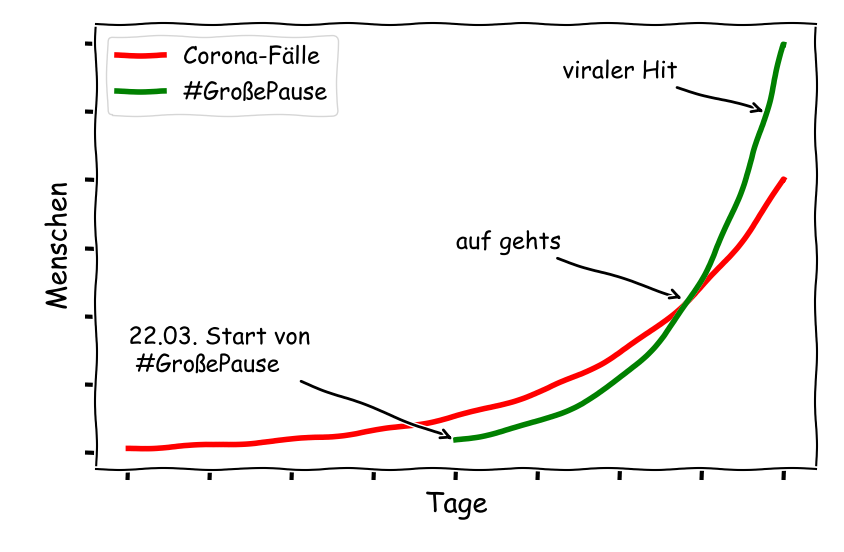
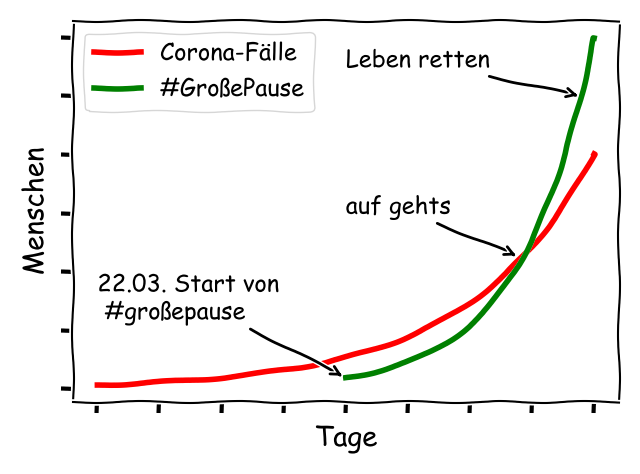
Styled impressum, added sources, added new plot graphic, minor text changes

diff --git a/imprint.html b/imprint.html
@@ -1,58 +1,202 @@
-<h1 class="adsimple-321164076">Impressum</h1>
-<p class="adsimple-321164076">Informationspflicht laut § 5 TMG.</p>
-<p class="adsimple-321164076">
-<p>Marc Bickel</p>
-<p class="adsimple-321164076">Straßlacher Str. 2, <br />81479 München, <br />Deutschland</p>
-<p class="adsimple-321164076">
-<strong>E-Mail:</strong> <a href="mailto:marc.bickel.de@gmail.com">marc.bickel.de@gmail.com</a>
-</p>
-<p style="margin-top:15px;">Quelle: Erstellt mit dem <a title="Impressum Generator Deutschland" href="https://www.adsimple.de/impressum-generator/" target="_blank" rel="follow" style="text-decoration:none;">Impressum Generator</a> von AdSimple in Kooperation mit <a href="https://www.123familie.de" target="_blank" rel="follow" title="">123familie.de</a>
-</p>
-<h2 class="adsimple-321164076">EU-Streitschlichtung</h2>
-<p>Gemäß Verordnung über Online-Streitbeilegung in Verbraucherangelegenheiten (ODR-Verordnung) möchten wir Sie über die Online-Streitbeilegungsplattform (OS-Plattform) informieren.<br />
-Verbraucher haben die Möglichkeit, Beschwerden an die Online Streitbeilegungsplattform der Europäischen Kommission unter <a class="adsimple-321164076" href="https://ec.europa.eu/consumers/odr/main/index.cfm?event=main.home2.show&amp;lng=DE" target="_blank" rel="noopener">http://ec.europa.eu/odr?tid=321164076</a> zu richten. Die dafür notwendigen Kontaktdaten finden Sie oberhalb in unserem Impressum.</p>
-<p>Wir möchten Sie jedoch darauf hinweisen, dass wir nicht bereit oder verpflichtet sind, an Streitbeilegungsverfahren vor einer Verbraucherschlichtungsstelle teilzunehmen.</p>
-<h2 class="adsimple-321164076">Haftung für Inhalte dieser Website</h2>
-<p>Wir entwickeln die Inhalte dieser Webseite ständig weiter und bemühen uns korrekte und aktuelle Informationen bereitzustellen. Laut Telemediengesetz <a class="adsimple-321164076" href="https://www.gesetze-im-internet.de/tmg/__7.html?tid=321164076" rel="noopener" target="_blank">(TMG) §7 (1)</a> sind wir als Diensteanbieter für eigene Informationen, die wir zur Nutzung bereitstellen, nach den allgemeinen Gesetzen verantwortlich. Leider können wir keine Haftung für die Korrektheit aller Inhalte auf dieser Webseite übernehmen, speziell für jene die seitens Dritter bereitgestellt wurden. Als Diensteanbieter im Sinne der §§ 8 bis 10 sind wir nicht verpflichtet, die von ihnen übermittelten oder gespeicherten Informationen zu überwachen oder nach Umständen zu forschen, die auf eine rechtswidrige Tätigkeit hinweisen.</p>
-<p>Unsere Verpflichtungen zur Entfernung von Informationen oder zur Sperrung der Nutzung von Informationen nach den allgemeinen Gesetzen aufgrund von gerichtlichen oder behördlichen Anordnungen bleiben auch im Falle unserer Nichtverantwortlichkeit nach den §§ 8 bis 10 unberührt. </p>
-<p>Sollten Ihnen problematische oder rechtswidrige Inhalte auffallen, bitte wir Sie uns umgehend zu kontaktieren, damit wir die rechtswidrigen Inhalte entfernen können. Sie finden die Kontaktdaten im Impressum.</p>
-<h2 class="adsimple-321164076">Haftung für Links auf dieser Website</h2>
-<p>Unsere Webseite enthält Links zu anderen Webseiten für deren Inhalt wir nicht verantwortlich sind. Haftung für verlinkte Websites besteht für uns nicht, da wir keine Kenntnis rechtswidriger Tätigkeiten hatten und haben, uns solche Rechtswidrigkeiten auch bisher nicht aufgefallen sind und wir Links sofort entfernen würden, wenn uns Rechtswidrigkeiten bekannt werden.</p>
-<p>Wenn Ihnen rechtswidrige Links auf unserer Website auffallen, bitte wir Sie uns zu kontaktieren. Sie finden die Kontaktdaten im Impressum.</p>
-<h2 class="adsimple-321164076">Urheberrechtshinweis</h2>
-<p>Alle Inhalte dieser Webseite (Bilder, Fotos, Texte, Videos) unterliegen dem Urheberrecht der Bundesrepublik Deutschland. Bitte fragen Sie uns bevor Sie die Inhalte dieser Website verbreiten, vervielfältigen oder verwerten wie zum Beispiel auf anderen Websites erneut veröffentlichen. Falls notwendig, werden wir die unerlaubte Nutzung von Teilen der Inhalte unserer Seite rechtlich verfolgen.</p>
-<p>Sollten Sie auf dieser Webseite Inhalte finden, die das Urheberrecht verletzen, bitten wir Sie uns zu kontaktieren.</p>
-<h2 class="adsimple-321164076">Bildernachweis</h2>
-<p>Die Bilder, Fotos und Grafiken auf dieser Webseite sind urheberrechtlich geschützt.</p>
-<p>Die Bilderrechte liegen bei den folgenden Fotografen und Unternehmen:</p>
-<ul class="adsimple-321164076">
-<li class="adsimple-321164076">Fotograf Mustermann</li>
-</ul>
-<h1 class="adsimple-321164076">Datenschutzerklärung</h1>
-<h2 class="adsimple-321164076">Datenschutz</h2>
-<p>Wir haben diese Datenschutzerklärung (Fassung 22.03.2020-321164076) verfasst, um Ihnen gemäß der Vorgaben der <a class="adsimple-321164076" href="https://eur-lex.europa.eu/legal-content/DE/ALL/?uri=celex%3A32016R0679&amp;tid=321164076" target="_blank" rel="noopener">Datenschutz-Grundverordnung (EU) 2016/679</a> zu erklären, welche Informationen wir sammeln, wie wir Daten verwenden und welche Entscheidungsmöglichkeiten Sie als Besucher dieser Webseite haben.</p>
-<p>Leider liegt es in der Natur der Sache, dass diese Erklärungen sehr technisch klingen, wir haben uns bei der Erstellung jedoch bemüht die wichtigsten Dinge so einfach und klar wie möglich zu beschreiben.</p>
-<h2 class="adsimple-321164076">TLS-Verschlüsselung mit https</h2>
-<p>Wir verwenden https um Daten abhörsicher im Internet zu übertragen (Datenschutz durch Technikgestaltung <a class="adsimple-321164076" href="https://eur-lex.europa.eu/legal-content/DE/TXT/HTML/?uri=CELEX:32016R0679&amp;from=DE&#038;tid=321164076" target="_blank" rel="noopener">Artikel 25 Absatz 1 DSGVO</a>). Durch den Einsatz von TLS (Transport Layer Security), einem Verschlüsselungsprotokoll zur sicheren Datenübertragung im Internet können wir den Schutz vertraulicher Daten sicherstellen. Sie erkennen die Benutzung dieser Absicherung der Datenübertragung am kleinen Schloßsymbol links oben im Browser und der Verwendung des Schemas https (anstatt http) als Teil unserer Internetadresse.</p>
-<h2 class="adsimple-321164076">Google Fonts Datenschutzerklärung</h2>
-<p>Wir verwenden Google Fonts der Firma Google Inc. (1600 Amphitheatre Parkway Mountain View, CA 94043, USA) auf unserer Webseite.</p>
-<p>Für die Verwendung von Google-Schriftarten müssen Sie sich nicht anmelden bzw. ein Passwort hinterlegen. Weiters werden auch keine Cookies in Ihrem Browser gespeichert. Die Dateien (CSS, Schriftarten/Fonts) werden über die Google-Domains fonts.googleapis.com und fonts.gstatic.com angefordert. Laut Google sind die Anfragen nach CSS und Schriften vollkommen getrennt von allen anderen Google-Diensten. Wenn Sie ein Google-Konto haben, brauchen Sie keine Sorge haben, dass Ihre Google-Kontodaten, während der Verwendung von Google Fonts, an Google übermittelt werden. Google erfasst die Nutzung von CSS (Cascading Style Sheets) und der verwendeten Schriftarten und speichert diese Daten sicher. Wie die Datenspeicherung genau aussieht, werden wir uns noch im Detail ansehen.</p>
-<h3 class="adsimple-321164076">Was sind Google Fonts?</h3>
-<p>Google Fonts (früher Google Web Fonts) ist ein interaktives Verzeichnis mit mehr als 800 Schriftarten, die die <a class="adsimple-321164076" href="https://de.wikipedia.org/wiki/Google_LLC?tid=321164076" target="_blank" rel="noopener">Google LLC</a> zur freien Verwendung bereitstellt.</p>
-<p>Viele dieser Schriftarten sind unter der SIL Open Font License veröffentlicht, während andere unter der Apache-Lizenz veröffentlicht wurden. Beides sind freie Software-Lizenzen. Somit können wir sie frei verwenden, ohne dafür Lizenzgebühren zu zahlen.</p>
-<h3 class="adsimple-321164076">Warum verwenden wir Google Fonts auf unserer Webseite?</h3>
-<p>Mit Google Fonts können wir auf der eigenen Webseite Schriften nutzen, und müssen sie nicht auf unserem eigenen Server hochladen. Google Fonts ist ein wichtiger Baustein, um die Qualität unserer Webseite hoch zu halten. Alle Google-Schriften sind automatisch für das Web optimiert und dies spart Datenvolumen und ist speziell für die Verwendung bei mobilen Endgeräten ein großer Vorteil. Wenn Sie unsere Seite besuchen, sorgt die niedrige Dateigröße für eine schnelle Ladezeit. Des Weiteren sind Google Fonts sogenannte sichere Web Fonts. Unterschiedliche Bildsynthese-Systeme (Rendering) in verschiedenen Browsern, Betriebssystemen und mobilen Endgeräten können zu Fehlern führen. Solche Fehler können teilweise Texte bzw. ganze Webseiten optisch verzerren. Dank des schnellen Content Delivery Network (CDN) gibt es mit Google Fonts keine plattformübergreifenden Probleme. Google Fonts unterstützt alle gängigen Browser ( Google Chrome, Mozilla Firefox, Apple Safari, Opera)  und funktioniert zuverlässig auf den meisten modernen mobilen Betriebssystemen, einschließlich Android 2.2+ und iOS 4.2+ (iPhone, iPad, iPod).</p>
-<p>Wir verwenden die Google Fonts also, damit wir unser gesamtes Online-Service so schön und einheitlich wie möglich darstellen können. Nach dem Art. 6 Abs. 1 f lit. F DSGVO stellt das bereits ein „berechtigtes Interesse“ an der Verarbeitung von personenbezogenen Daten dar. Unter „berechtigtem Interesse“ versteht man in diesem Fall sowohl rechtliche als auch wirtschaftliche oder ideelle Interessen, die vom Rechtssystem anerkannt werden.</p>
-<h3 class="adsimple-321164076">Welche Daten werden von Google gespeichert?</h3>
-<p>Wenn Sie unsere Webseite besuchen, werden die Schriften über einen Google-Server nachgeladen. Durch diesen externen Aufruf werden Daten an die Google-Server übermittelt. So erkennt Google auch, dass Sie bzw. Ihre IP-Adresse unsere Webseite besucht. Die Google Fonts API wurde entwickelt, um die Erfassung, Speicherung und Verwendung von Endnutzerdaten auf das zu reduzieren, was für eine effiziente Bereitstellung von Schriften nötig ist. API steht übrigens für „Application Programming Interface“ und dient unter anderem als Datenübermittler im Softwarebereich.</p>
-<p>Google Fonts speichert CSS- und Font-Anfragen sicher bei Google und ist somit geschützt. Durch die gesammelten Nutzungszahlen kann Google die Beliebtheit der Schriften feststellen. Die Ergebnisse veröffentlicht Google auf internen Analyseseiten, wie beispielsweise Google Analytics. Zudem verwendet Google auch Daten des eigenen Web-Crawlers, um festzustellen, welche Webseiten Google-Schriften verwenden. Diese Daten werden in der BigQuery-Datenbank von Google Fonts veröffentlicht. BigQuery ist ein Webservice von Google für Unternehmen, die große Datenmengen bewegen und analysieren wollen.</p>
-<p>Zu bedenken gilt allerdings noch, dass durch jede Google Font Anfrage auch Informationen wie IP-Adresse, Spracheinstellungen, Bildschirmauflösung des Browsers, Version des Browsers und Name des Browsers automatisch an die Google-Server übertragen werden. Ob diese Daten auch gespeichert werden, ist nicht klar feststellbar bzw. wird von Google nicht eindeutig kommuniziert.</p>
-<h3 class="adsimple-321164076">Wie lange und wo werden die Daten gespeichert?</h3>
-<p>Anfragen für CSS-Assets speichert Google einen Tag lang auf Ihren Servern, die hauptsächlich außerhalb der EU angesiedelt sind. Das ermöglicht uns, mithilfe eines Google-Stylesheets die Schriftarten zu nutzen. Ein Stylesheet ist eine Formatvorlage, über die man einfach und schnell z.B. das Design bzw. die Schriftart einer Webseite ändern kann.</p>
-<p>Die Font-Dateien werden bei Google ein Jahr gespeichert. Google verfolgt damit das Ziel, die Ladezeit von Webseiten grundsätzlich zu verbessern. Wenn Millionen von Webseiten auf die gleichen Schriften verweisen, werden sie nach dem ersten Besuch zwischengespeichert und erscheinen sofort auf allen anderen später besuchten Webseiten wieder. Manchmal aktualisiert Google Schriftdateien, um die Dateigröße zu reduzieren, die Abdeckung von Sprache zu erhöhen und das Design zu verbessern.</p>
-<h3 class="adsimple-321164076">Wie kann ich meine Daten löschen bzw. die Datenspeicherung verhindern?</h3>
-<p>Jene Daten, die Google für einen Tag bzw. ein Jahr speichert können nicht einfach gelöscht werden. Die Daten werden beim Seitenaufruf automatisch an Google übermittelt. Um diese Daten vorzeitig löschen zu können, müssen Sie den Google-Support auf <a class="adsimple-321164076" href="https://support.google.com/?hl=de&amp;tid=321164076" target="_blank" rel="noopener">https://support.google.com/?hl=de&amp;tid=321164076</a> kontaktieren. Datenspeicherung verhindern Sie in diesem Fall nur, wenn Sie unsere Seite nicht besuchen.</p>
-<p>Anders als andere Web-Schriften erlaubt uns Google uneingeschränkten Zugriff auf alle Schriftarten. Wir können also unlimitiert auf ein Meer an Schriftarten zugreifen und so das Optimum für unsere Webseite rausholen. Mehr zu Google Fonts und weiteren Fragen finden Sie auf <a class="adsimple-321164076" href="https://developers.google.com/fonts/faq?tid=321164076" target="_blank" rel="noopener">https://developers.google.com/fonts/faq?tid=321164076</a>. Dort geht zwar Google auf datenschutzrelevante Angelegenheiten ein, doch wirklich detaillierte Informationen über Datenspeicherung sind nicht enthalten. Es ist relativ schwierig (beinahe unmöglich), von Google wirklich präzise Informationen über gespeicherten Daten zu bekommen.</p>
-<p>Welche Daten grundsätzlich von Google erfasst werden und wofür diese Daten verwendet werden, können Sie auch auf <a class="adsimple-321164076" href="https://policies.google.com/privacy?hl=de&amp;tid=321164076" target="_blank" rel="noopener">https://www.google.com/intl/de/policies/privacy/</a> nachlesen.</p>
-<p style="margin-top:15px;">Quelle: Erstellt mit dem <a title="Datenschutz Generator Deutschland" href="https://www.adsimple.de/datenschutz-generator/" target="_blank" rel="follow" style="text-decoration:none;">Datenschutz Generator</a> von AdSimple in Kooperation mit <a href="https://www.slashtechnik.de" target="_blank" rel="follow" title="">slashtechnik.de</a>
-</p>
+<!doctype html>
+<html class="no-js" lang="">
+
+<head>
+  <meta charset="utf-8">
+  <title>#großepause</title>
+  <meta name="description" content="">
+  <link rel="icon" href="favicon.ico" />
+  <meta name="viewport" content="width=device-width, initial-scale=1">
+
+  <link rel="manifest" href="site.webmanifest">
+  <link rel="apple-touch-icon" href="logo192.png" />
+
+  <!-- css -->
+  <link rel="stylesheet" href="https://cdnjs.cloudflare.com/ajax/libs/materialize/1.0.0/css/materialize.min.css">
+  <link rel="stylesheet" href="css/main.css?v=1.3">
+
+  <!-- fonts -->
+  <link href="https://fonts.googleapis.com/icon?family=Material+Icons" rel="stylesheet">
+  <link href="https://fonts.googleapis.com/css?family=Neucha&display=swap" rel="stylesheet">
+
+  <meta name="theme-color" content="#D92C60">
+</head>
+
+<body>´
+
+  <div id="impressum-container">
+    <h1 class="adsimple-321164076">Impressum</h1>
+    <p class="text-standard-size text-standard-color adsimple-321164076">Informationspflicht laut § 5 TMG.</p>
+    <p class="adsimple-321164076">
+      <p class="text-standard-size text-standard-color">Marc Bickel</p>
+      <p class="text-standard-size text-standard-color adsimple-321164076">Straßlacher Str. 2, <br />81479 München, <br />Deutschland</p>
+      <p class="text-standard-size text-standard-color adsimple-321164076">
+        <strong>E-Mail:</strong> <a href="mailto:marc.bickel.de@gmail.com">marc.bickel.de@gmail.com</a>
+      </p>
+      <p class="text-size-small" style="margin-top:15px;">Quelle: Erstellt mit dem <a title="Impressum Generator Deutschland"
+          href="https://www.adsimple.de/impressum-generator/" target="_blank" rel="follow"
+          style="text-decoration:none;">Impressum Generator</a> von AdSimple in Kooperation mit <a
+          href="https://www.123familie.de" target="_blank" rel="follow" title="">123familie.de</a>
+      </p>
+      <h2 class="adsimple-321164076">EU-Streitschlichtung</h2>
+      <p class="text-standard-size text-standard-color">Gemäß Verordnung über Online-Streitbeilegung in
+        Verbraucherangelegenheiten (ODR-Verordnung) möchten wir Sie über die Online-Streitbeilegungsplattform
+        (OS-Plattform) informieren.<br />
+        Verbraucher haben die Möglichkeit, Beschwerden an die Online Streitbeilegungsplattform der Europäischen
+        Kommission unter <a class="adsimple-321164076"
+          href="https://ec.europa.eu/consumers/odr/main/index.cfm?event=main.home2.show&amp;lng=DE" target="_blank"
+          rel="noopener">http://ec.europa.eu/odr?tid=321164076</a> zu richten. Die dafür notwendigen Kontaktdaten finden
+        Sie oberhalb in unserem Impressum.</p>
+      <p class="text-standard-size text-standard-color">Wir möchten Sie jedoch darauf hinweisen, dass wir nicht bereit
+        oder verpflichtet sind, an Streitbeilegungsverfahren vor einer Verbraucherschlichtungsstelle teilzunehmen.</p>
+      <h2 class="adsimple-321164076">Haftung für Inhalte dieser Website</h2>
+      <p class="text-standard-size text-standard-color">Wir entwickeln die Inhalte dieser Webseite ständig weiter und
+        bemühen uns korrekte und aktuelle Informationen bereitzustellen. Laut Telemediengesetz <a
+          class="adsimple-321164076" href="https://www.gesetze-im-internet.de/tmg/__7.html?tid=321164076" rel="noopener"
+          target="_blank">(TMG) §7 (1)</a> sind wir als Diensteanbieter für eigene Informationen, die wir zur Nutzung
+        bereitstellen, nach den allgemeinen Gesetzen verantwortlich. Leider können wir keine Haftung für die Korrektheit
+        aller Inhalte auf dieser Webseite übernehmen, speziell für jene die seitens Dritter bereitgestellt wurden. Als
+        Diensteanbieter im Sinne der §§ 8 bis 10 sind wir nicht verpflichtet, die von ihnen übermittelten oder
+        gespeicherten Informationen zu überwachen oder nach Umständen zu forschen, die auf eine rechtswidrige Tätigkeit
+        hinweisen.</p>
+      <p class="text-standard-size text-standard-color">Unsere Verpflichtungen zur Entfernung von Informationen oder zur
+        Sperrung der Nutzung von Informationen nach den allgemeinen Gesetzen aufgrund von gerichtlichen oder
+        behördlichen Anordnungen bleiben auch im Falle unserer Nichtverantwortlichkeit nach den §§ 8 bis 10 unberührt.
+      </p>
+      <p class="text-standard-size text-standard-color">Sollten Ihnen problematische oder rechtswidrige Inhalte
+        auffallen, bitte wir Sie uns umgehend zu kontaktieren, damit wir die rechtswidrigen Inhalte entfernen können.
+        Sie finden die Kontaktdaten im Impressum.</p>
+      <h2 class="adsimple-321164076">Haftung für Links auf dieser Website</h2>
+      <p class="text-standard-size text-standard-color">Unsere Webseite enthält Links zu anderen Webseiten für deren
+        Inhalt wir nicht verantwortlich sind. Haftung für verlinkte Websites besteht für uns nicht, da wir keine
+        Kenntnis rechtswidriger Tätigkeiten hatten und haben, uns solche Rechtswidrigkeiten auch bisher nicht
+        aufgefallen sind und wir Links sofort entfernen würden, wenn uns Rechtswidrigkeiten bekannt werden.</p>
+      <p class="text-standard-size text-standard-color">Wenn Ihnen rechtswidrige Links auf unserer Website auffallen,
+        bitte wir Sie uns zu kontaktieren. Sie finden die Kontaktdaten im Impressum.</p>
+      <h2 class="adsimple-321164076">Urheberrechtshinweis</h2>
+      <p class="text-standard-size text-standard-color">Alle Inhalte dieser Webseite (Bilder, Fotos, Texte, Videos)
+        unterliegen dem Urheberrecht der Bundesrepublik Deutschland. Bitte fragen Sie uns bevor Sie die Inhalte dieser
+        Website verbreiten, vervielfältigen oder verwerten wie zum Beispiel auf anderen Websites erneut veröffentlichen.
+        Falls notwendig, werden wir die unerlaubte Nutzung von Teilen der Inhalte unserer Seite rechtlich verfolgen.</p>
+      <p class="text-standard-size text-standard-color">Sollten Sie auf dieser Webseite Inhalte finden, die das
+        Urheberrecht verletzen, bitten wir Sie uns zu kontaktieren.</p>
+      <h2 class="adsimple-321164076">Bildernachweis</h2>
+      <p class="text-standard-size text-standard-color">Die Bilder, Fotos und Grafiken auf dieser Webseite sind
+        urheberrechtlich geschützt.</p>
+      <p class="text-standard-size text-standard-color">Die Bilderrechte liegen bei den folgenden Grafikern:</p>
+      <ul class="text-standard-size text-standard-color adsimple-321164076">
+        <li class="adsimple-321164076">Sandra Birkemeyer</li>
+        <li class="adsimple-321164076">Lorenz Sykora</li>
+      </ul>
+      <h1 class="adsimple-321164076">Datenschutzerklärung</h1>
+      <h2 class="adsimple-321164076">Datenschutz</h2>
+      <p class="text-standard-size text-standard-color">Wir haben diese Datenschutzerklärung (Fassung
+        22.03.2020-321164076) verfasst, um Ihnen gemäß der Vorgaben der <a class="adsimple-321164076"
+          href="https://eur-lex.europa.eu/legal-content/DE/ALL/?uri=celex%3A32016R0679&amp;tid=321164076"
+          target="_blank" rel="noopener">Datenschutz-Grundverordnung (EU) 2016/679</a> zu erklären, welche Informationen
+        wir sammeln, wie wir Daten verwenden und welche Entscheidungsmöglichkeiten Sie als Besucher dieser Webseite
+        haben.</p>
+      <p class="text-standard-size text-standard-color">Leider liegt es in der Natur der Sache, dass diese Erklärungen
+        sehr technisch klingen, wir haben uns bei der Erstellung jedoch bemüht die wichtigsten Dinge so einfach und klar
+        wie möglich zu beschreiben.</p>
+      <h2 class="adsimple-321164076">TLS-Verschlüsselung mit https</h2>
+      <p class="text-standard-size text-standard-color">Wir verwenden https um Daten abhörsicher im Internet zu
+        übertragen (Datenschutz durch Technikgestaltung <a class="adsimple-321164076"
+          href="https://eur-lex.europa.eu/legal-content/DE/TXT/HTML/?uri=CELEX:32016R0679&amp;from=DE&#038;tid=321164076"
+          target="_blank" rel="noopener">Artikel 25 Absatz 1 DSGVO</a>). Durch den Einsatz von TLS (Transport Layer
+        Security), einem Verschlüsselungsprotokoll zur sicheren Datenübertragung im Internet können wir den Schutz
+        vertraulicher Daten sicherstellen. Sie erkennen die Benutzung dieser Absicherung der Datenübertragung am kleinen
+        Schloßsymbol links oben im Browser und der Verwendung des Schemas https (anstatt http) als Teil unserer
+        Internetadresse.</p>
+      <h2 class="adsimple-321164076">Google Fonts Datenschutzerklärung</h2>
+      <p class="text-standard-size text-standard-color">Wir verwenden Google Fonts der Firma Google Inc. (1600
+        Amphitheatre Parkway Mountain View, CA 94043, USA) auf unserer Webseite.</p>
+      <p class="text-standard-size text-standard-color">Für die Verwendung von Google-Schriftarten müssen Sie sich nicht
+        anmelden bzw. ein Passwort hinterlegen. Weiters werden auch keine Cookies in Ihrem Browser gespeichert. Die
+        Dateien (CSS, Schriftarten/Fonts) werden über die Google-Domains fonts.googleapis.com und fonts.gstatic.com
+        angefordert. Laut Google sind die Anfragen nach CSS und Schriften vollkommen getrennt von allen anderen
+        Google-Diensten. Wenn Sie ein Google-Konto haben, brauchen Sie keine Sorge haben, dass Ihre Google-Kontodaten,
+        während der Verwendung von Google Fonts, an Google übermittelt werden. Google erfasst die Nutzung von CSS
+        (Cascading Style Sheets) und der verwendeten Schriftarten und speichert diese Daten sicher. Wie die
+        Datenspeicherung genau aussieht, werden wir uns noch im Detail ansehen.</p>
+      <h3 class="adsimple-321164076">Was sind Google Fonts?</h3>
+      <p class="text-standard-size text-standard-color">Google Fonts (früher Google Web Fonts) ist ein interaktives
+        Verzeichnis mit mehr als 800 Schriftarten, die die <a class="adsimple-321164076"
+          href="https://de.wikipedia.org/wiki/Google_LLC?tid=321164076" target="_blank" rel="noopener">Google
+          LLC</a> zur freien Verwendung bereitstellt.</p>
+      <p class="text-standard-size text-standard-color">Viele dieser Schriftarten sind unter der SIL Open Font
+        License veröffentlicht, während andere unter der Apache-Lizenz veröffentlicht wurden. Beides sind freie
+        Software-Lizenzen. Somit können wir sie frei verwenden, ohne dafür Lizenzgebühren zu zahlen.</p>
+      <h3 class="adsimple-321164076">Warum verwenden wir Google Fonts auf unserer Webseite?</h3>
+      <p class="text-standard-size text-standard-color">Mit Google Fonts können wir auf der eigenen Webseite Schriften
+        nutzen, und müssen sie nicht auf unserem eigenen Server hochladen. Google Fonts ist ein wichtiger Baustein, um
+        die Qualität unserer Webseite hoch zu halten. Alle Google-Schriften sind automatisch für das Web optimiert und
+        dies spart Datenvolumen und ist speziell für die Verwendung bei mobilen Endgeräten ein großer Vorteil. Wenn Sie
+        unsere Seite besuchen, sorgt die niedrige Dateigröße für eine schnelle Ladezeit. Des Weiteren sind Google Fonts
+        sogenannte sichere Web Fonts. Unterschiedliche Bildsynthese-Systeme (Rendering) in verschiedenen Browsern,
+        Betriebssystemen und mobilen Endgeräten können zu Fehlern führen. Solche Fehler können teilweise Texte bzw.
+        ganze Webseiten optisch verzerren. Dank des schnellen Content Delivery Network (CDN) gibt es mit Google Fonts
+        keine plattformübergreifenden Probleme. Google Fonts unterstützt alle gängigen Browser ( Google Chrome, Mozilla
+        Firefox, Apple Safari, Opera)  und funktioniert zuverlässig auf den meisten modernen mobilen Betriebssystemen,
+        einschließlich Android 2.2+ und iOS 4.2+ (iPhone, iPad, iPod).</p>
+      <p class="text-standard-size text-standard-color">Wir verwenden die Google Fonts also, damit wir unser gesamtes
+        Online-Service so schön und einheitlich wie möglich darstellen können. Nach dem Art. 6 Abs. 1 f lit. F DSGVO
+        stellt das bereits ein „berechtigtes Interesse“ an der Verarbeitung von personenbezogenen Daten dar. Unter
+        „berechtigtem Interesse“ versteht man in diesem Fall sowohl rechtliche als auch wirtschaftliche oder ideelle
+        Interessen, die vom Rechtssystem anerkannt werden.</p>
+      <h3 class="adsimple-321164076">Welche Daten werden von Google gespeichert?</h3>
+      <p class="text-standard-size text-standard-color">Wenn Sie unsere Webseite besuchen, werden die Schriften über
+        einen Google-Server nachgeladen. Durch diesen externen Aufruf werden Daten an die Google-Server übermittelt. So
+        erkennt Google auch, dass Sie bzw. Ihre IP-Adresse unsere Webseite besucht. Die Google Fonts API wurde
+        entwickelt, um die Erfassung, Speicherung und Verwendung von Endnutzerdaten auf das zu reduzieren, was für eine
+        effiziente Bereitstellung von Schriften nötig ist. API steht übrigens für „Application Programming Interface“
+        und dient unter anderem als Datenübermittler im Softwarebereich.</p>
+      <p class="text-standard-size text-standard-color">Google Fonts speichert CSS- und Font-Anfragen sicher bei Google
+        und ist somit geschützt. Durch die gesammelten Nutzungszahlen kann Google die Beliebtheit der Schriften
+        feststellen. Die Ergebnisse veröffentlicht Google auf internen Analyseseiten, wie beispielsweise Google
+        Analytics. Zudem verwendet Google auch Daten des eigenen Web-Crawlers, um festzustellen, welche Webseiten
+        Google-Schriften verwenden. Diese Daten werden in der BigQuery-Datenbank von Google Fonts veröffentlicht.
+        BigQuery ist ein Webservice von Google für Unternehmen, die große Datenmengen bewegen und analysieren wollen.
+      </p>
+      <p class="text-standard-size text-standard-color">Zu bedenken gilt allerdings noch, dass durch jede Google Font
+        Anfrage auch Informationen wie IP-Adresse, Spracheinstellungen, Bildschirmauflösung des Browsers, Version des
+        Browsers und Name des Browsers automatisch an die Google-Server übertragen werden. Ob diese Daten auch
+        gespeichert werden, ist nicht klar feststellbar bzw. wird von Google nicht eindeutig kommuniziert.</p>
+      <h3 class="adsimple-321164076">Wie lange und wo werden die Daten gespeichert?</h3>
+      <p class="text-standard-size text-standard-color">Anfragen für CSS-Assets speichert Google einen Tag lang auf
+        Ihren Servern, die hauptsächlich außerhalb der EU angesiedelt sind. Das ermöglicht uns, mithilfe eines
+        Google-Stylesheets die Schriftarten zu nutzen. Ein Stylesheet ist eine Formatvorlage, über die man einfach und
+        schnell z.B. das Design bzw. die Schriftart einer Webseite ändern kann.</p>
+      <p class="text-standard-size text-standard-color">Die Font-Dateien werden bei Google ein Jahr gespeichert. Google
+        verfolgt damit das Ziel, die Ladezeit von Webseiten grundsätzlich zu verbessern. Wenn Millionen von Webseiten
+        auf die gleichen Schriften verweisen, werden sie nach dem ersten Besuch zwischengespeichert und erscheinen
+        sofort auf allen anderen später besuchten Webseiten wieder. Manchmal aktualisiert Google Schriftdateien, um die
+        Dateigröße zu reduzieren, die Abdeckung von Sprache zu erhöhen und das Design zu verbessern.</p>
+      <h3 class="adsimple-321164076">Wie kann ich meine Daten löschen bzw. die Datenspeicherung verhindern?</h3>
+      <p class="text-standard-size text-standard-color">Jene Daten, die Google für einen Tag bzw. ein Jahr speichert
+        können nicht einfach gelöscht werden. Die Daten werden beim Seitenaufruf automatisch an Google übermittelt. Um
+        diese Daten vorzeitig löschen zu können, müssen Sie den Google-Support auf <a class="adsimple-321164076"
+          href="https://support.google.com/?hl=de&amp;tid=321164076" target="_blank"
+          rel="noopener">https://support.google.com/?hl=de&amp;tid=321164076</a> kontaktieren. Datenspeicherung
+        verhindern Sie in diesem Fall nur, wenn Sie unsere Seite nicht besuchen.</p>
+      <p class="text-standard-size text-standard-color">Anders als andere Web-Schriften erlaubt uns Google
+        uneingeschränkten Zugriff auf alle Schriftarten. Wir können also unlimitiert auf ein Meer an Schriftarten
+        zugreifen und so das Optimum für unsere Webseite rausholen. Mehr zu Google Fonts und weiteren Fragen finden Sie
+        auf <a class="adsimple-321164076" href="https://developers.google.com/fonts/faq?tid=321164076" target="_blank"
+          rel="noopener">https://developers.google.com/fonts/faq?tid=321164076</a>. Dort geht zwar Google auf
+        datenschutzrelevante Angelegenheiten ein, doch wirklich detaillierte Informationen über Datenspeicherung sind
+        nicht enthalten. Es ist relativ schwierig (beinahe unmöglich), von Google wirklich präzise Informationen über
+        gespeicherten Daten zu bekommen.</p>
+      <p class="text-standard-size text-standard-color">Welche Daten grundsätzlich von Google erfasst werden und wofür
+        diese Daten verwendet werden, können Sie auch auf <a class="adsimple-321164076"
+          href="https://policies.google.com/privacy?hl=de&amp;tid=321164076" target="_blank"
+          rel="noopener">https://www.google.com/intl/de/policies/privacy/</a> nachlesen.</p>
+      <p class="text-size-small" style="margin-top:15px;">Quelle: Erstellt mit dem <a title="Datenschutz Generator Deutschland"
+          href="https://www.adsimple.de/datenschutz-generator/" target="_blank" rel="follow"
+          style="text-decoration:none;">Datenschutz Generator</a> von AdSimple in Kooperation mit <a
+          href="https://www.slashtechnik.de" target="_blank" rel="follow" title="">slashtechnik.de</a>
+      </p>
+  </div>
+</body>
+
+</html>

diff --git a/index.html b/index.html
@@ -97,9 +97,9 @@
         <div id="infobox-why" class="infobox background-light padding-horizontal padding-vertical">
           <h2 class="text-primary">Warum #großepause?</h2>
           <div class="content text-standard-size text-standard-color">
-            <p>Menschen, die Teil einer Risikogruppe sind, stehen schon unter normalen Umständen täglich vor großen Herausforderungen. Seit der Corona-Pandemie hat sich dies nochmal verstärkt. Für viele von ihnen bedeutet eine Infektion mit COVID-19 ein erhebliches Risiko und oft sogar den Tod. Dennoch können und wollen sie sich natürlich nicht über Wochen hinweg einsperren. Alltägliche Besorgungen müssen nach wie vor erledigt werden.</p>
+            <p>Menschen, die Teil einer Risikogruppe sind, stehen seit der Corona-Pandemie vor sehr großen Herausforderungen in der Bewältigung ihres Alltags. Für viele von ihnen bedeutet eine Infektion mit COVID-19 ein erhebliches Risiko und oft sogar den Tod. Dennoch können und wollen sie sich natürlich nicht über Wochen hinweg einsperren. Alltägliche Besorgungen müssen nach wie vor erledigt werden.</p>
             <p>Zusätzlich ist es so, dass Menschen der Nicht-Risikogruppe, insbesondere junge Menschen, viel öfter zum Virusüberträger werden, da sie ihre Infektion unter Umständen nicht einmal bemerken und generell laxer in der Umsetzung von Vorsichtsmaßnahmen sind.</p>
-            <p>Mit #großepause können wir einen Zeitraum schaffen, in dem Risikoträger bedenkenlos Besorgungen nachgehen können, während weniger gefährdete Personen in diesem Zeitraum freiwillig daheim bleiben.</p>
+            <p>Mit #großepause können wir einen Zeitraum schaffen, in dem Risikogruppen risikoloser Besorgungen nachgehen können, während weniger gefährdete Personen in diesem Zeitraum freiwillig daheim bleiben.</p>
           </div>
         </div>
 
@@ -110,13 +110,13 @@
               <p>Die Initiative #großepause folgt einem ganz einfachen aber sehr effektiven Konzept:</p>
               
               <div class="infobox-step text-primary"><i class="material-icons pad medium">looks_one</i><h3>Daheim bleiben</h3></div>
-              <p>Wenn Du nicht Teil einer Risikogruppe bist, bleibst Du jeden Tag zwischen 09:30 und 11:00 freiwillig zu Hause, unabhängig von den sowieso schon geltenden Ausgangsbeschränkungen. Du erledigst in dieser Zeit also auch keine Einkäufe oder sonstige Aktivitäten außerhalb der eigenen vier Wände.</p>
+              <p>Wenn Du nicht Teil einer Risikogruppe bist, bleibst Du jeden Tag zwischen 09:30 und 11:00 freiwillig zu Hause, unabhängig von den sowieso schon geltenden Ausgangsbeschränkungen. Du erledigst in dieser Zeit also auch keine Einkäufe oder sonstige Aktivitäten außer Haus.</p>
               
               <div class="infobox-step text-primary"><i class="material-icons pad medium">looks_two</i><h3>Teilen</h3></div>
               <p>Wir schlagen das Virus mit seiner eigenen Waffe: exponentiellem Wachstum. Die Idee soll sich mit Deiner Hilfe ausbreiten – schneller als das Virus. Wir benötigen eine Inkubationszeit von wenigen Minuten und eine Verdopplungszeit von wenigen Stunden, um ganz Deutschland innerhalb einer Woche zu erreichen.</p>
               
               <div class="infobox-step text-primary"><i class="material-icons pad medium">looks_3</i><h3>Leben retten</h3></div>
-              <p>Erreichen wir genügend Menschen innerhalb kurzer Zeit, können wir einen sinnvollen Beitrag zur Sicherheit der Risikogruppe leisten. Und das fast ohne Aufwand. So einfach war es noch nie, Menschenleben zu retten.</p>
+              <p>Erreichen wir genügend Menschen innerhalb kurzer Zeit, können wir einen Beitrag zur Sicherheit der Risikogruppe leisten. Und das fast ohne Aufwand. So einfach war es noch nie, Menschenleben zu retten.</p>
             </div>
           </div>
           <div class="infobox-right">
@@ -175,6 +175,7 @@
                   Diese Gruppe fassen wir als 'Risikogruppe' zusammen. Und die gilt es mit den aktuellen Maßnahmen zu schützen.</p>
                 <p>Zum Beispiel könnte jemand mit einem geschwächten Immunsystem die neuen Viren nicht ausreichend abwehren, diese verbreiten sich schneller im Körper und führen somit zu stärkeren Symptomen. Folge kann z.B.  Atemnot sein, die so schwer ist, dass man Sauerstoff benötigt, oder gar beatmet werden muss.</p>
                 <p>Es könnte aber auch jemand mit einer Herz-Kreislauf-Schwäche sein. Bei einer Infektion strengt sich der Körper an, arbeitet gegen die fremden Erreger und das Herz muss schneller schlagen. Das hält das geschwächte Herz aber nicht lange durch und der Betroffene erleidet einen Kreislaufschock und muss intensivmedizinisch behandelt werden.</p>
+                <p>Quelle: <a class="text-standard-color" href="https://www.rki.de/DE/Content/InfAZ/N/Neuartiges_Coronavirus/Steckbrief.html" target="_blank">Coronavirus Steckbrief des RKI</a>, Stand: 21.03.2020</p>
               </div>
 
             </li>
@@ -188,6 +189,7 @@
               <div class="collapsible-body text-standard-size text-standard-color padding-horizontal">
                 <p>Das RKI definiert Menschen ab einem Alter von 50-60 Jahren als Personen mit erhöhtem Risiko. Das liegt einerseits am geschwächten Immunsystem im Alter, sowie der Häufung anderer Erkrankungen (Komorbiditäten).</p>
                 <p>Wichtig ist aber auch hierbei, dass die Statistik für den Einzelnen nicht immer zählt. Wenn Du jemand bist, der beim Treppensteigen Probleme mit dem Luftholen hat, oder aber andere Vorerkrankungen, v.a. der Lunge bekannt sind, gehörst Du möglicherweise auch zur Risikogruppe. Denke hierbei nicht nur an Deine Großeltern, es könnte auch Dein sonst gesunder Kollege, oder Deine Mutter darunter fallen.</p>
+                <p>Quelle: <a class="text-standard-color" href="https://www.rki.de/DE/Content/InfAZ/N/Neuartiges_Coronavirus/Steckbrief.html" target="_blank">Coronavirus Steckbrief des RKI</a>, Stand: 21.03.2020</p>
               </div>
 
             </li>
@@ -215,18 +217,18 @@
 
               <div class="collapsible-body text-standard-size text-standard-color padding-horizontal">
                 <p>Das Virus ist noch sehr neu, darum gibt es noch immer nicht ausreichend Daten, um genaue Aussagen zu treffen. Auf der Website des RKI findest du den aktuellen Stand der wissenschaftlichen Erkenntnisse.</p>
-                <p>Demnach zählen folgende Personen zur Risikogruppe (Stand 21.03.2020):</p>
+                <p>Demnach zählen folgende Personen zur Risikogruppe:</p>
                 <ul style="list-style-type:disc;">
-                  <li>Alter ab 50-60 Jahren</li>
-                  <li>Herzkreislauferkrankungen (Herzmuskelschwäche, Herzinfarkte in der Vergangenheit, chronischer Bluthochdruck, Herzfehler...)</li>
-                  <li>Herzkreislauferkrankungen (Herzmuskelschwäche, Herzinfarkte in der Vergangenheit, chronischer Bluthochdruck, Herzfehler...)</li>
-                  <li>Chronische Stoffwechselerkrankungen wie Diabetes</li>
-                  <li>Erkrankungen des Atmungssystems (Chronische Bronchitis, langjähriges Rauchen, Asthma, kürzlich zurückliegende Lungenentzündung,...)</li>
-                  <li>Erkrankungen der Leber (Hepatitis, Leberzirrhose,..)</li>
-                  <li>Erkrankungen der Niere (Nierenversagen, Dialysepflichtige Patienten, Diabetische Nephropathie,...)</li>
-                  <li>Krebserkrankungen (Leukämien, Tumore jeder Art)</li>
-                  <li>Unterdrücktes Immunsystem (angeborene Immunschwäche, unterdrücktes Immunsystem durch die Einnahme von Medikamenten z.B. Cortison z.B. bei Organtransplantierten oder bei Rheuma, HIV-Patienten,...)</li>
+                  <li>• Alter ab 50-60 Jahren</li>
+                  <li>• Herzkreislauferkrankungen (Herzmuskelschwäche, Herzinfarkte in der Vergangenheit, chronischer Bluthochdruck, Herzfehler...)</li>
+                  <li>• Chronische Stoffwechselerkrankungen wie Diabetes</li>
+                  <li>• Erkrankungen des Atmungssystems (Chronische Bronchitis, langjähriges Rauchen, Asthma, kürzlich zurückliegende Lungenentzündung,...)</li>
+                  <li>• Erkrankungen der Leber (Hepatitis, Leberzirrhose,..)</li>
+                  <li>• Erkrankungen der Niere (Nierenversagen, Dialysepflichtige Patienten, Diabetische Nephropathie,...)</li>
+                  <li>• Krebserkrankungen (Leukämien, Tumore jeder Art)</li>
+                  <li>• Unterdrücktes Immunsystem (angeborene Immunschwäche, unterdrücktes Immunsystem durch die Einnahme von Medikamenten z.B. Cortison z.B. bei Organtransplantierten oder bei Rheuma, HIV-Patienten,...)</li>
                 </ul>
+                <p>Quelle: <a class="text-standard-color" href="https://www.rki.de/DE/Content/InfAZ/N/Neuartiges_Coronavirus/Steckbrief.html" target="_blank">Coronavirus Steckbrief des RKI</a>, Stand: 21.03.2020</p>
               </div>
 
             </li>
@@ -266,7 +268,7 @@
 
     <footer>
       <div id="impressum" class="background-primary-dark text-standard-color text-size-small padding-horizontal">
-        <a href="#">Impressum</a>
+        <a href="imprint.html">Impressum</a>
       </div>
     </footer>
 

diff --git a/css/main.css b/css/main.css
@@ -36,6 +36,10 @@ a {
   color: #fff;
 }
 
+a:hover {
+  text-decoration: underline;
+}
+
 #container {
   display: flex;
   flex-direction: column;
@@ -288,6 +292,16 @@ main {
 .padding-vertical {
   padding-top: 8rem;
   padding-bottom: 8rem;
+}
+
+/* imprint.html */
+
+#impressum-container {
+  padding: 8rem 16rem;
+}
+
+#impressum-container a {
+  color: #333333;
 }
 
 @media only screen and (min-width: 2560px){
